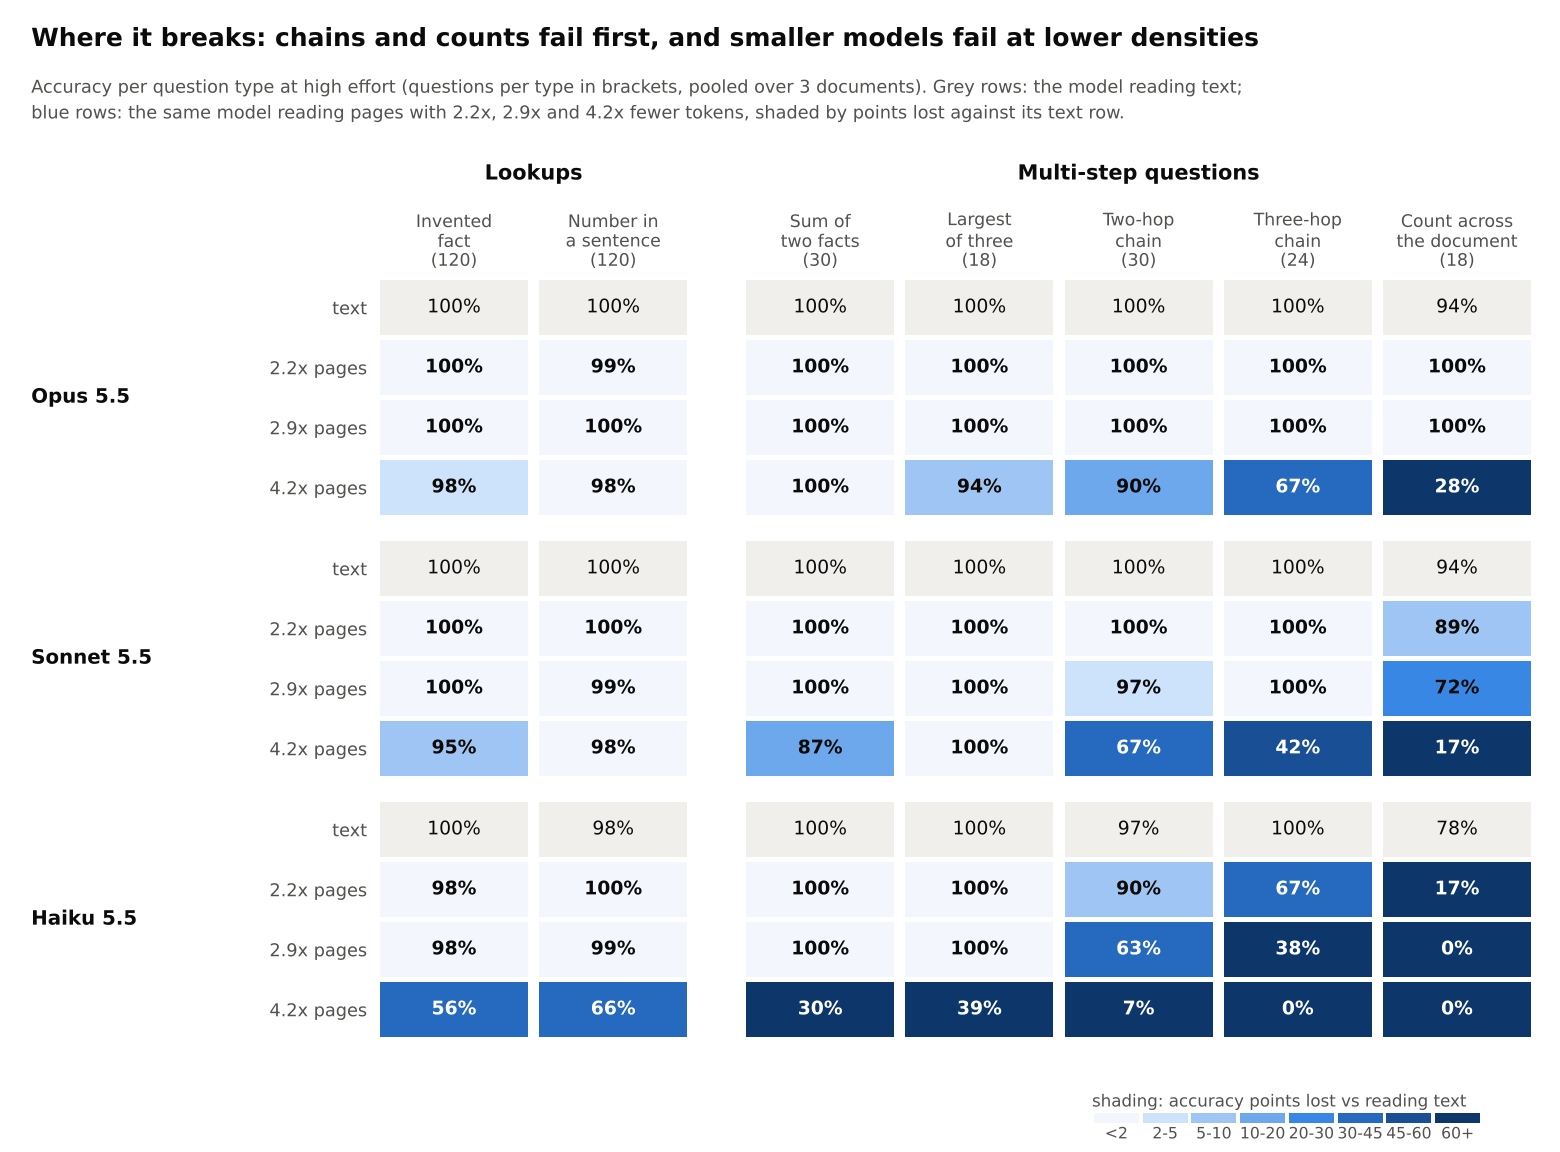
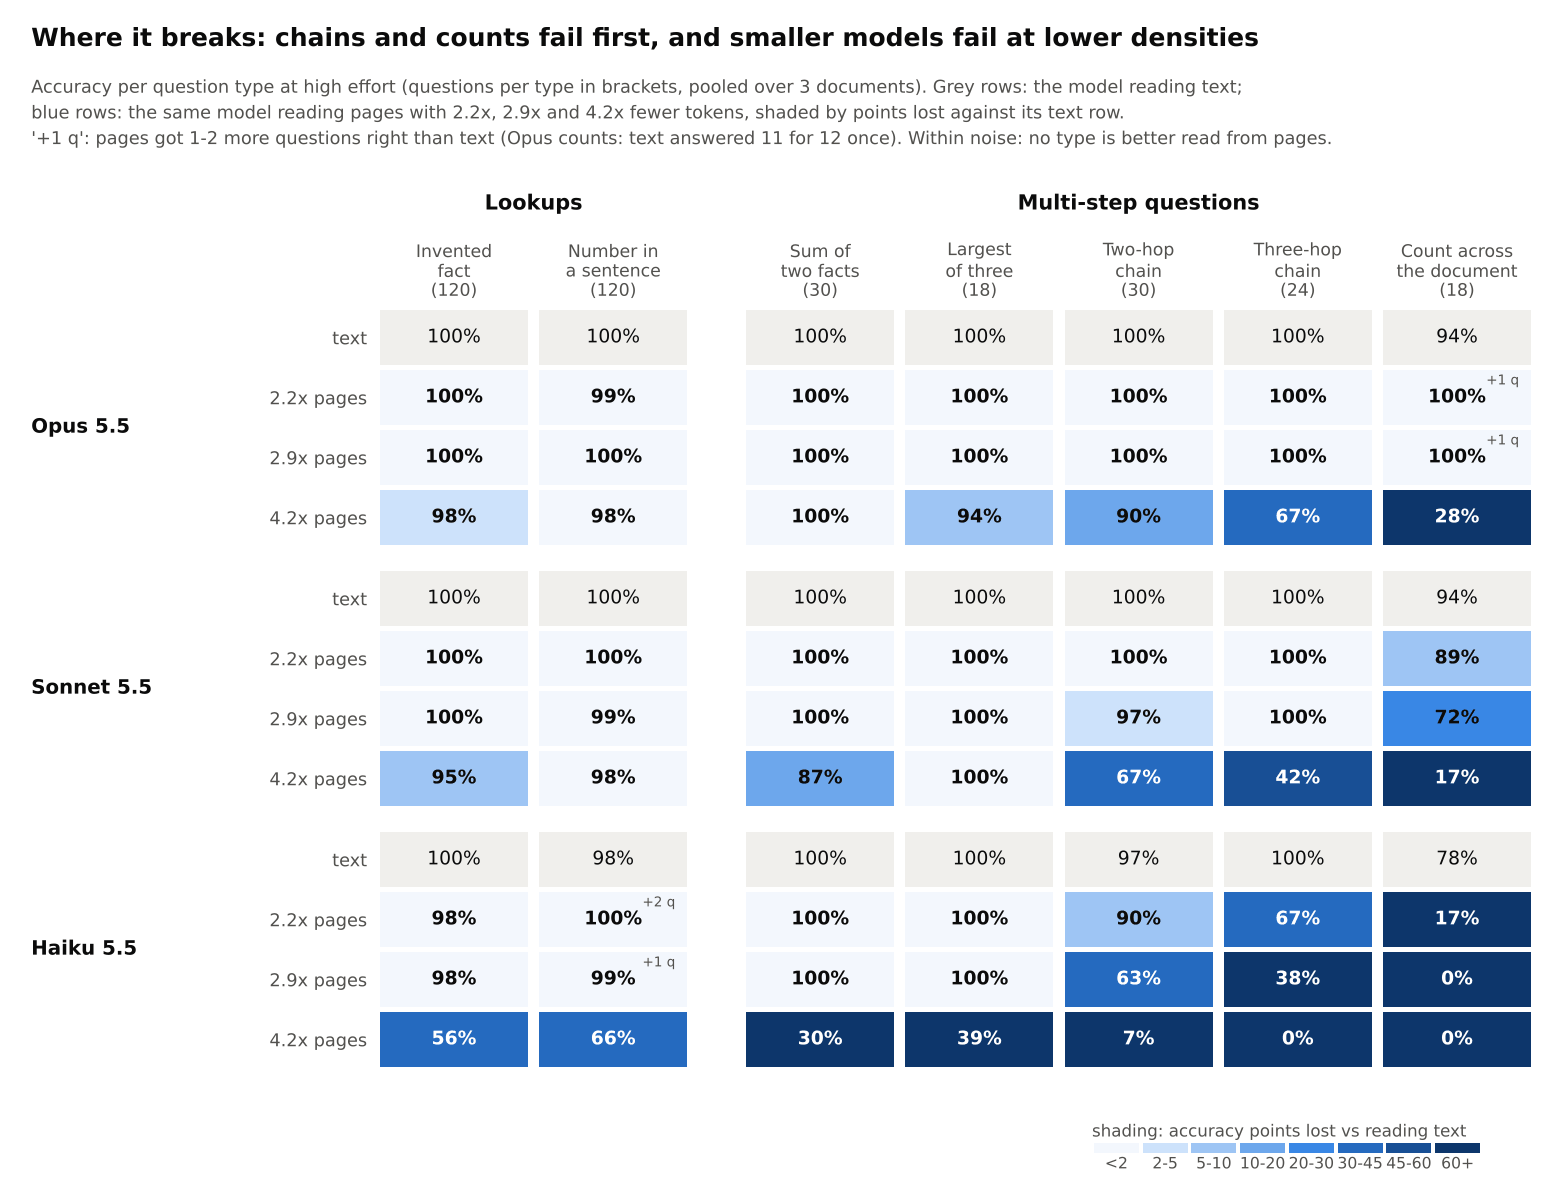
Claude QA breakdown figure: mark the four cells where pages beat text (+1-2 questions; Opus counts 18 vs 17 of 18 because the text call answered 11 for 12 once) and say in the subtitle and write-up that this is noise, not a gain
Claude-Session: https://claude.ai/code/session_01WVzSJ934fYhDkwG8gwoyMQ

diff --git a/scripts/make_claude_qa_figures.py b/scripts/make_claude_qa_figures.py
@@ -251,7 +251,7 @@ def fig_breakdown():
         ys.append(y)
         y += 1
     xs = [j + (0.3 if j >= N_LOOKUP else 0) for j in range(len(KINDS))]
-    TOP, BOT, ROW = 1.15, 0.75, 0.40
+    TOP, BOT, ROW = 1.35, 0.75, 0.40
     H_in = TOP + BOT + ROW * (y + 1.75)
     fig, ax = plt.subplots(figsize=(10.4, H_in), dpi=150)
     fig.subplots_adjust(left=0.24, right=0.985, top=1 - TOP / H_in, bottom=BOT / H_in)
@@ -265,6 +265,9 @@ def fig_breakdown():
                                    facecolor=NEUTRAL if w == 0 else loss_colour(loss), lw=0))
             ax.text(xx + 0.5, yy + 0.5, f"{acc:.0f}%", ha="center", va="center", fontsize=9,
                     fontweight="normal" if w == 0 else "bold", color=M.INK_1 if w == 0 else ink_on(loss))
+            if w == 1 and ic > tc:   # pages ahead of text: say by how many questions, so it is not read as a gain
+                ax.text(xx + 1 - 2 * G - 0.04, yy + 2 * G + 0.04, f"+{ic - tc} q", ha="right", va="top",
+                        fontsize=6.5, color=M.INK_2)
     n_of = {k: S[next(iter(MODELS))][f"high/{BUDGETS[0][0]}"]["kinds"][k][2] for k, _ in KINDS}
     for xx, (k, name) in zip(xs, KINDS):
         ax.text(xx + 0.5, -0.12, f"{name}\n({n_of[k]})", ha="center", va="bottom", fontsize=8.3, color=M.INK_2,
@@ -286,7 +289,8 @@ def fig_breakdown():
     header(fig, H_in, "Where it breaks: chains and counts fail first, and smaller models fail at lower densities",
            "Accuracy per question type at high effort (questions per type in brackets, pooled over 3 documents). Grey "
            "rows: the model reading text;\nblue rows: the same model reading pages with 2.2x, 2.9x and 4.2x fewer "
-           "tokens, shaded by points lost against its text row.")
+           "tokens, shaded by points lost against its text row.\n'+1 q': pages got 1-2 more questions right than text "
+           "(Opus counts: text answered 11 for 12 once). Within noise: no type is better read from pages.")
     loss_legend(fig, [0.70, 0.10 / H_in, 0.25, 0.16 / H_in])
     save(fig, "claude_qa_breakdown.png")
     plt.close(fig)

diff --git a/docs/CLAUDE_QA.md b/docs/CLAUDE_QA.md
@@ -73,12 +73,16 @@ the exploratory runs that density failed outright ([A5](#a5-earlier-exploratory-
 ![Accuracy per question type, each model at high effort](img/claude_qa_breakdown.png)
 
 *How to read it:* columns are question types, one block of rows per model: the grey row is the model reading text,
-the blue rows the same model reading pages. Shading is points lost against the grey row.
+the blue rows the same model reading pages. Shading is points lost against the grey row. A small "+1 q" marks the
+four cells where pages got 1-2 more questions right than text; that is noise, not a gain (see the counts bullet).
 
 * **Lookups and sums survive the longest.** Opus keeps 98-100% on them even at 4.2x. (Sums and largest-of-three add
   up facts that are also asked as separate questions in the same call, so they partly reuse that work.)
 * **Chains and counts fail first.** At 4.2x, Opus gets 67% of three-hop and 28% of count questions right. Wrong
-  two-hop answers are usually another club's boat count: the facts are read, the link between them is lost.
+  two-hop answers are usually another club's boat count: the facts are read, the link between them is lost. Opus's
+  wrong counts are all too low (10 for 12, 5 for 7): occurrences are missed. Text is not perfect
+  on counts either: Opus and Sonnet each answered 11 for 12 once from text (17 of 18), which is why Opus's 2.2x and
+  2.9x pages, with 18 of 18, appear to beat text by one question.
 * **Sonnet sits between Opus and Haiku:** its first loss is counting (89% at 2.2x, 72% at 2.9x); at 4.2x three-hop is
   at 42%.
 * **Haiku fails the same way with fewer tokens saved:** three-hop falls to 67% already at 2.2x, and at 4.2x even single
